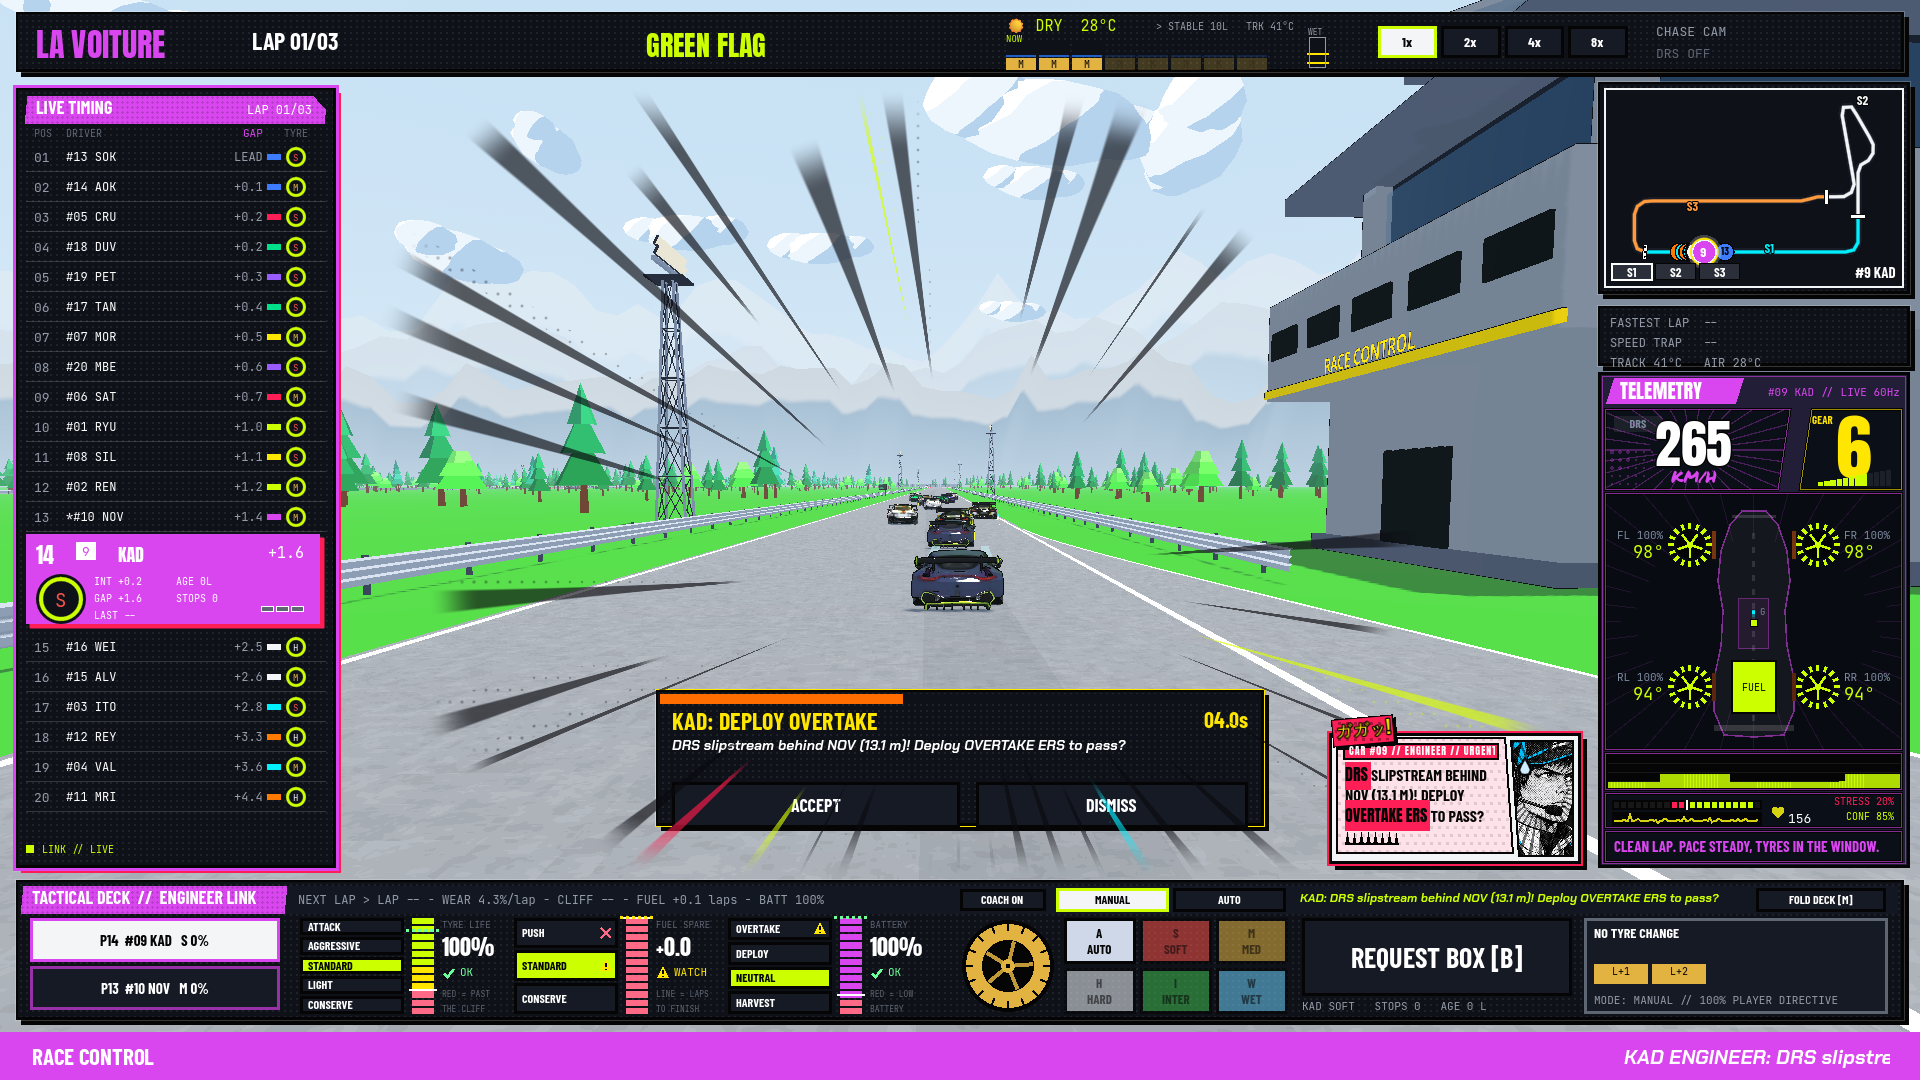
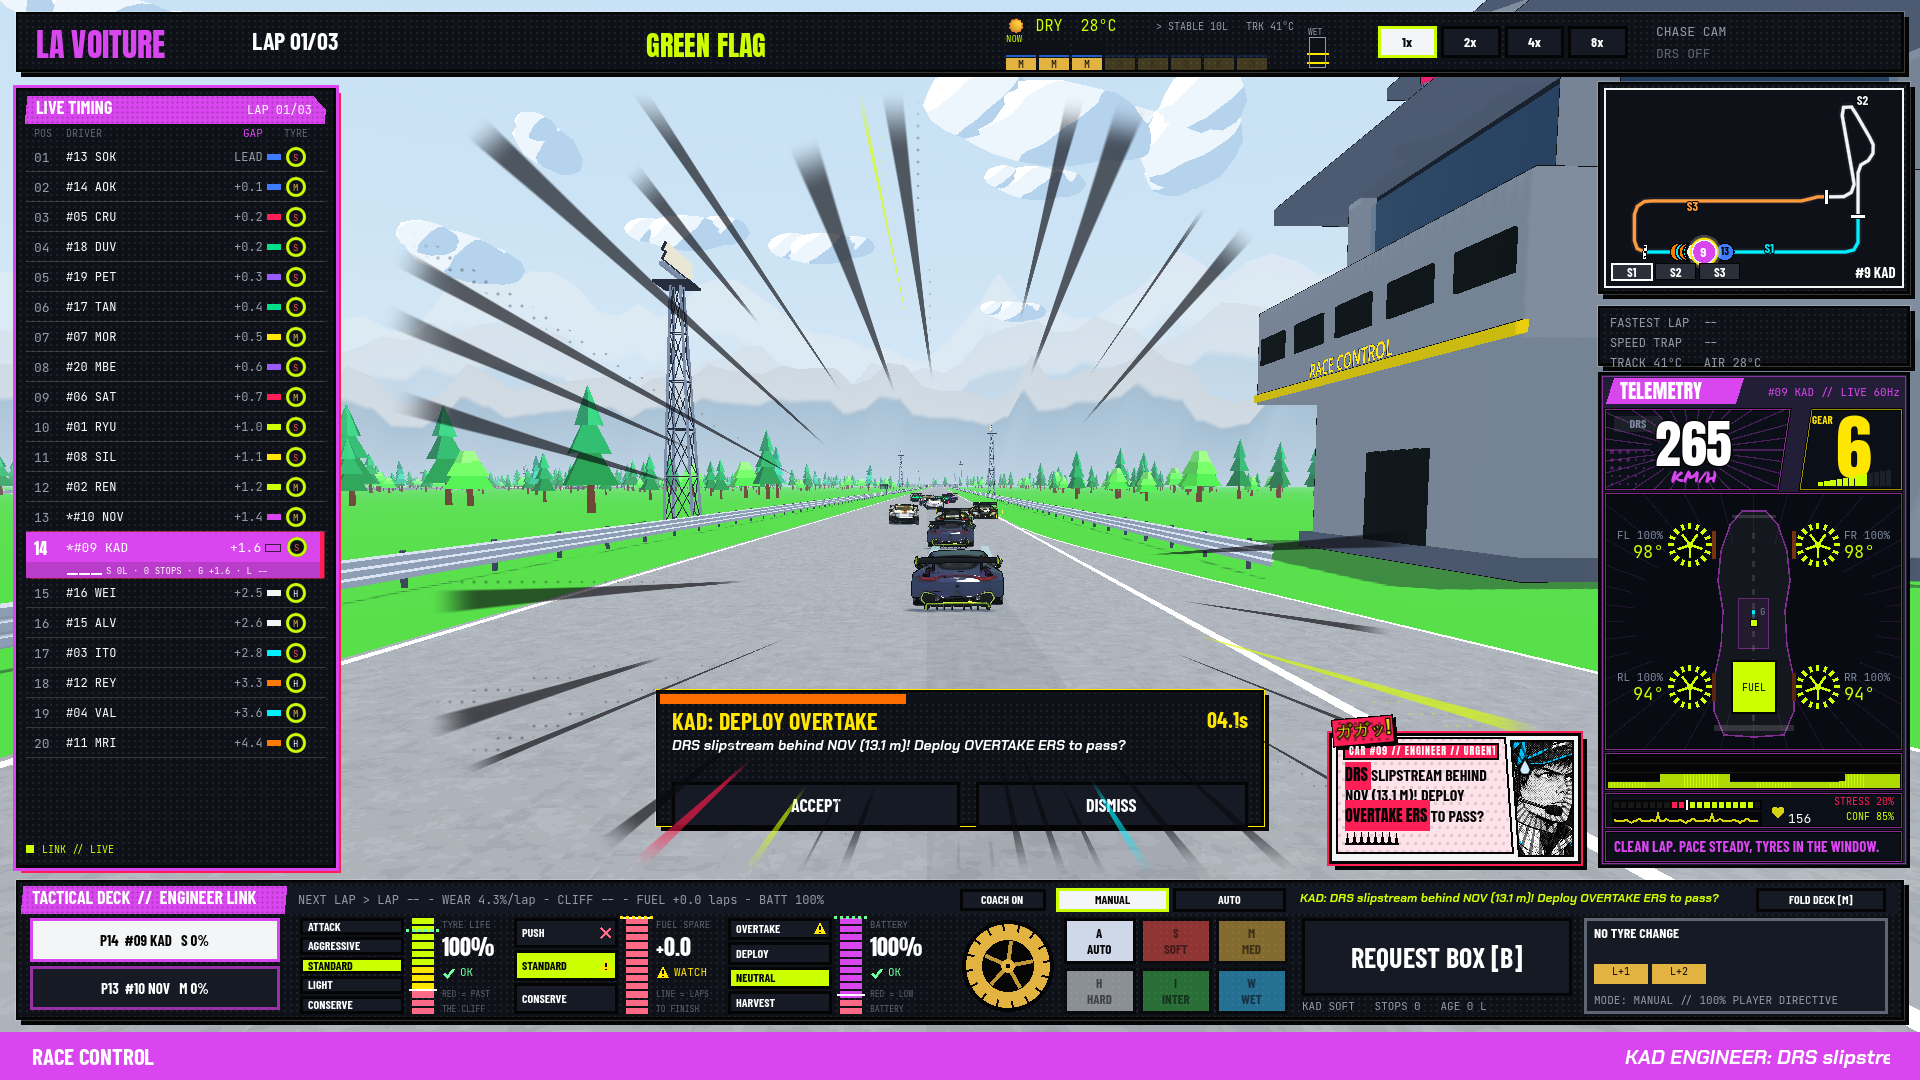
feat(hud): compact 46 px selected timing row; radar follows the deck car
- Selected driver is the 30 px row on the team accent plus a 16 px strip
  (sector bars, tyre age, stops, gap, last lap, DRS). The list below moves
  16 px instead of 70 px.
- Radar caption and sector chips read the deck car, like the telemetry; the
  big dot stays on the camera car. test_circuit_minimap #R4 updated.
- Tests first: strip contents and 46 px height, radar reads the deck car.
- Re-captured the Fase 29 screenshots; report and roadmap updated.

diff --git a/executor-report/reports/FASE-29-LIVE-TIMING-SLAB-REPORT.md b/executor-report/reports/FASE-29-LIVE-TIMING-SLAB-REPORT.md
@@ -9,8 +9,9 @@
 
 | Area | Sebelum | Sekarang |
 |---|---|---|
-| Live Timing | `POS / DRIVER / INT / huruf kompon`; sorotan terpilih lime tetap | Baris ringkas 30 px (posisi, kode, nilai Tab, penanda tim, ring tyre-life). Mobil yang di-follow membuka slab 100 px berwarna tim: INT/GAP/LAST sekaligus, umur ban, stop, DRS, tiga bar sektor. Header, bingkai, bayangan, dan slab mengikuti `style.accent/on_accent/shadow`. |
+| Live Timing | `POS / DRIVER / INT / huruf kompon`; sorotan terpilih lime tetap | Baris ringkas 30 px (posisi, kode, nilai Tab, penanda tim, ring tyre-life). Mobil yang di-follow menjadi baris berwarna tim 46 px (opsi B): baris 30 px dengan kolom Tab, plus strip 16 px berisi tiga bar sektor, umur ban, stop, GAP, LAST, dan tag DRS. Header, bingkai, bayangan, dan slab mengikuti `style.accent/on_accent/shadow`. |
 | Elemen ban telemetri | Sumur panas 24×44 + enam blok tread | Roda tick: 16 tick = tyre-life, spoke dan hub warna suhu, kode roda + persen life + suhu di sisi luar. Brake disc, glow, blister, silang ban pecah dipertahankan. |
+| Radar | Caption dan chip sektor mobil yang di-follow | Caption dan chip sektor mobil deck; titik besar tetap di mobil kamera |
 | Sumber telemetri | Mobil yang di-follow (bisa rival) | `deck.deck_car_id`: hanya driver player yang aktif di Tactical Deck. |
 | Ambang merah tyre-life | 0,3 (blok tread lama) | `1 - GtTypes.TYRE_CLIFF_WEAR` = 0,25, sama dengan gauge TYRE LIFE di deck (satu statik, `TyreLifeRing.tint_for`). |
 
@@ -33,15 +34,16 @@ Perubahan data: `GtRace.standings_entries()` +3 kunci (`tyre_life`, `tyre_age_la
 6. Baris `tower.style = style` dimajukan dari Task 7 ke Task 6 (tes slab butuh tower ber-style).
 7. Header tower tetap tab chamfer berisi accent (seperti header deck), bukan header datar seperti preview HTML; catatan "LAP nn/nn" lewat `TimingTower.set_header_note`.
 8. Label kolom Tab berwarna accent hanya bila kontras ≥ 3:1 terhadap panel; selain itu putih (ditemukan dari capture tim gelap, tes ditambahkan merah dulu).
-9. Radar dibiarkan (belum ada keputusan developer): masih menampilkan warna sektor dan label mobil yang di-follow.
+9. Radar: semula dibiarkan, lalu diputuskan developer (opsi B) mengikuti mobil deck. `#R4` di `tests/test_circuit_minimap.gd` diubah karena menguji perilaku lama. Titik besar tetap di mobil kamera karena itu posisi, bukan status. Biaya: caption radar dan titik besar bisa menunjuk mobil berbeda saat rival diklik.
 10. Slab berganti dengan snap tanpa animasi.
+11. Setelah review, slab 100 px diganti opsi B (46 px, strip 16 px) dari tiga konsep compact di preview HTML; teks strip 9 px, hanya dinilai dari capture. Nomor mobil tidak lagi berplat sendiri (kode `#09 KAD` satu label). Biaya: teks strip kecil.
 
 ## Belum / catatan
 
 - Smoke native (`scratch/smoke_race.gd -- apex_ring`, `d3d12` 1080p, HUD Fase 29 aktif): 3 lap 20 mobil, 20/20 finis, frame rata-rata 16,67 ms, p95 16,74 ms, terburuk 17,07 ms, podium terbuka, **0 orphan** setelah dunia dan podium dibebaskan. Skrip ini tidak menekan tombol EXIT TO HQ, jadi pindah ke menu utama tidak diuji ulang di fase ini (jalur itu tidak disentuh Fase 29).
 - Wear per roda tidak ada di sim: keempat roda menampilkan tyre-life yang sama.
 - Keterbacaan font 11/17 px roda tick dinilai dari capture saja; tidak ada pengguna yang menguji.
-- Klik baris di bawah slab menggeser daftar 70 px saat slab lama runtuh; tidak diuji dengan tangan.
+- Klik baris di bawah slab menggeser daftar 16 px (sebelumnya 70 px); tidak diuji dengan tangan.
 - Peringatan ObjectDB leak muncul sekali pada satu run headless suite baru tepat setelah edit file (31–37 instance) dan tidak terulang pada run berikutnya maupun pada `test_race_hud`. Tidak ditemukan penyebabnya.
 - `slab_texts` dihitung untuk 20 entry tiap 6 frame padahal hanya satu yang dipakai (minor, ditunda).
 

diff --git a/ROADMAP.md b/ROADMAP.md
@@ -7,10 +7,11 @@
 ## Status Fase 29 — 2026-11-05
 
 - [x] **Fase 29: Live Timing "Slab" + roda tyre-life — warna tower ikut tim player, telemetri hanya driver deck** (branch `fase-29-live-timing-slab`, belum di-merge)
-  - Tower: baris ringkas 30 px dengan ring tyre-life dan penanda tim; mobil yang di-follow membuka slab 100 px berwarna tim (INT/GAP/LAST sekaligus, umur ban, stop, DRS, tiga bar sektor). Chrome mengikuti `style.accent/on_accent/shadow`; label kolom Tab tetap terbaca di warna tim gelap.
+  - Tower: baris ringkas 30 px dengan ring tyre-life dan penanda tim; mobil yang di-follow menjadi baris berwarna tim 46 px (baris 30 px + strip 16 px: tiga bar sektor, umur ban, stop, GAP, LAST, DRS; kolom Tab tetap di baris). Daftar di bawahnya hanya bergeser 16 px. Chrome mengikuti `style.accent/on_accent/shadow`; label kolom Tab tetap terbaca di warna tim gelap.
+  - Radar: caption dan chip sektor kini membaca mobil deck (bukan mobil yang di-follow); titik besar di peta tetap mengikuti kamera.
   - Telemetri: elemen ban saja (`TelemetryPainter._tyre`) menjadi roda tick; sumber data sekarang `deck.deck_car_id`, tidak pernah mobil rival yang di-follow. Ambang merah tyre-life disatukan dengan gauge deck (`1 - TYRE_CLIFF_WEAR` = 0,25, semula 0,3).
   - Bukti: suite baru `tests/test_live_timing_slab.gd` (26 assertion, merah dulu), **115/115 suite headless, 0 FAIL** (irisan, latar depan); capture native 1080p di `executor-report/screenshots/phases/phase-29-live-timing-slab/`. Laporan: [`FASE-29-LIVE-TIMING-SLAB-REPORT.md`](executor-report/reports/FASE-29-LIVE-TIMING-SLAB-REPORT.md). Spec: [`2026-11-05-live-timing-slab-design.md`](docs/superpowers/specs/2026-11-05-live-timing-slab-design.md).
-  - Belum: smoke native 3 lap 20 mobil dengan FPS dan orphan node, wear per roda (perubahan sim), radar masih menampilkan info mobil yang di-follow.
+  - Smoke native Apex 3 lap 20 mobil: 20/20 finis, p95 16,74 ms, 0 orphan. Belum: wear per roda (perubahan sim).
 
 ---
 
